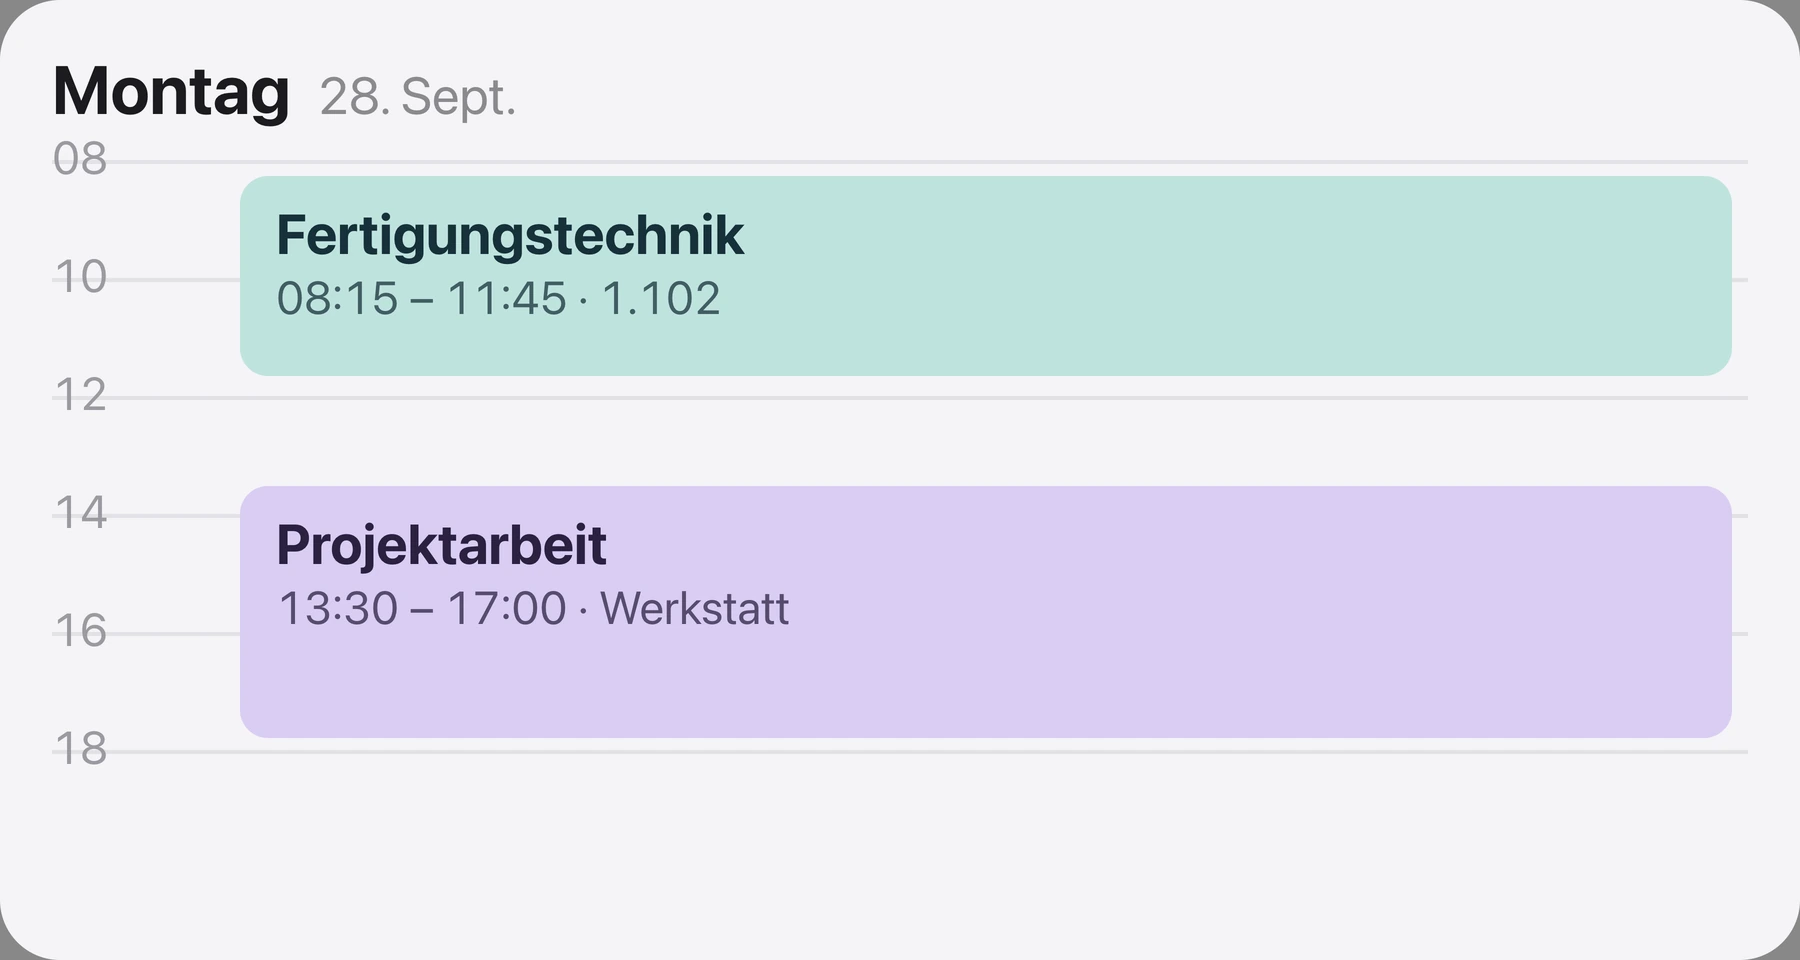
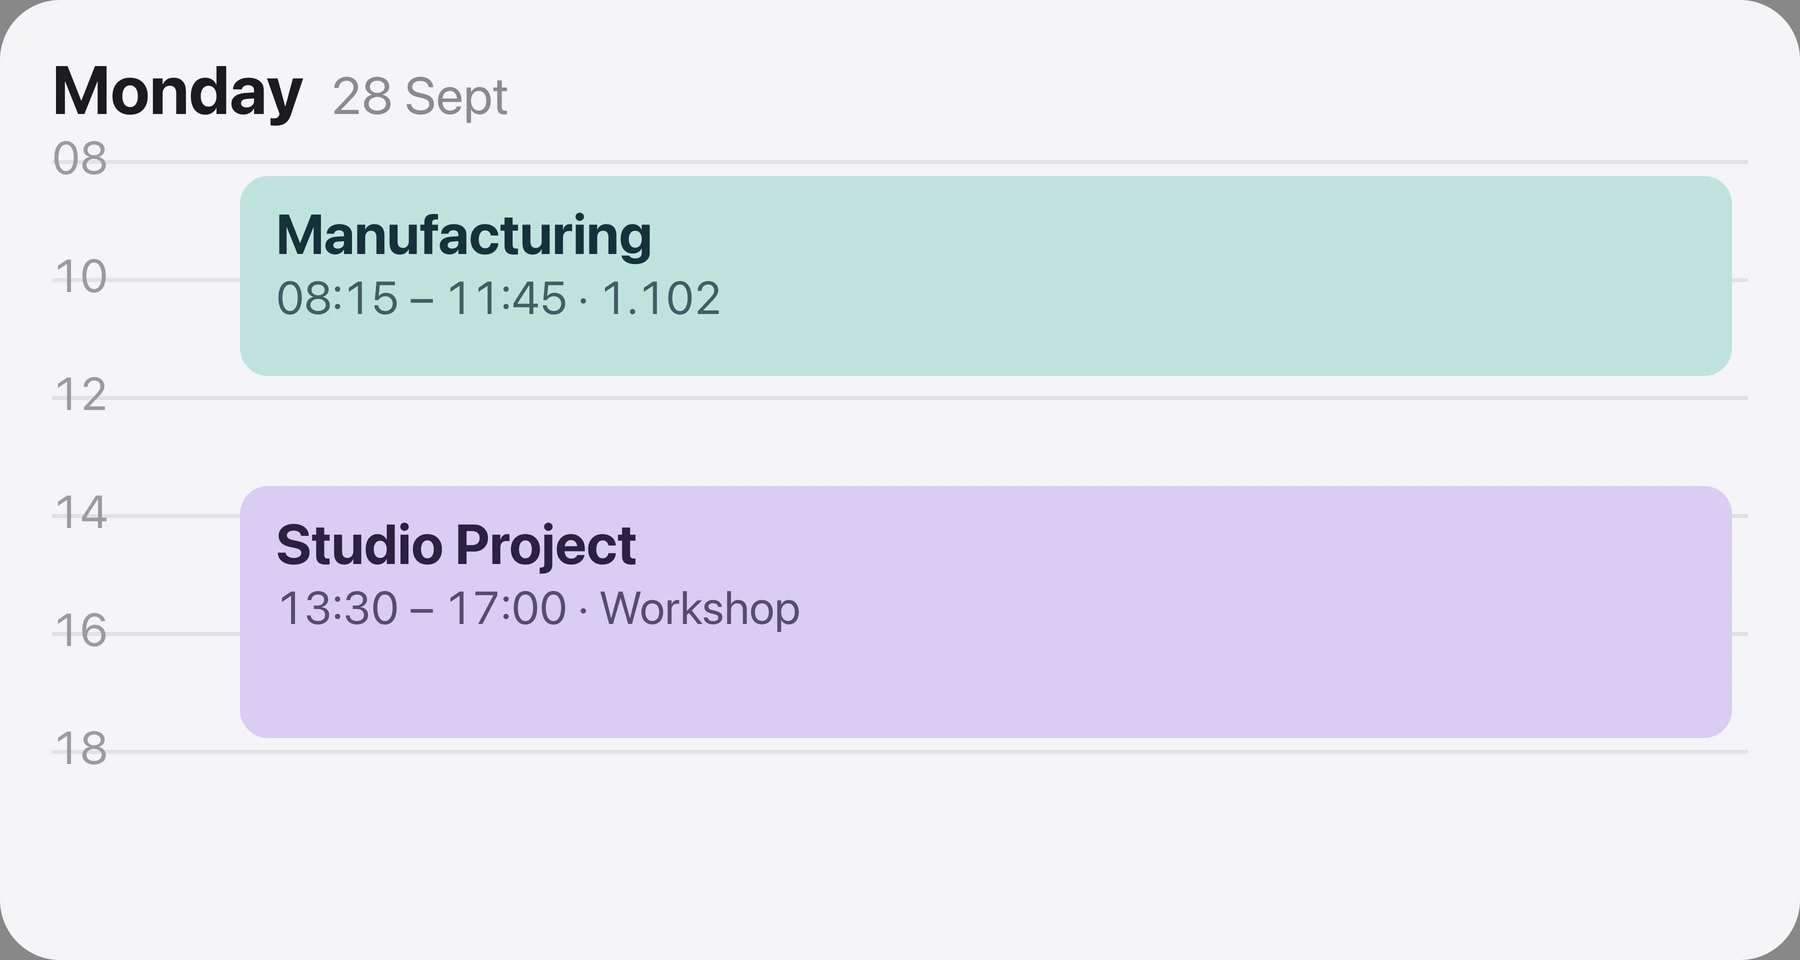
Wipe the chat before each loop, fix the image fade, English courses, Ben
The run now clears itself and starts over instead of rolling straight on.
A leaving message fades on opacity alone in a fixed box, which is what
made the timetables stutter as they closed. Courses are English and
Jamie is Ben.

diff --git a/public/unify2d1.html b/public/unify2d1.html
@@ -1663,7 +1663,13 @@
        export, where the frame's island covers them; a black band pushes them
        below it. Padding is in the image's box, so the scroll travel
        (calc(-100% + 100cqh)) still lands on the last row. */
-    .v1-window img.v1-clear-island { padding-top: 10%; background: #000; box-sizing: content-box; }
+    /* The band has to clear the FRAME's island, and that is 12.6% of the screen
+       box's width below its top edge (measured off iphone-17-frame.png's alpha:
+       the pill ends at y 130, the screen box starts at y 28, over a 808px box).
+       At 10% the card's top edge landed 0.6px under the island — touching, and
+       on a device it rounded the wrong way and the island cut into the white.
+       15% leaves ~2.4% of the width as real black between the two. */
+    .v1-window img.v1-clear-island { padding-top: 15%; background: #000; box-sizing: content-box; }
     /* Home and timetable scroll their whole length, but only while they are
        the phone in the middle of the carousel — the script plays it with the
        Web Animations API (see the carousel script). The travel is
@@ -2053,7 +2059,7 @@
               <div class="imsg-head">
                 <span class="imsg-back">‹</span>
                 <div class="imsg-group">
-                  <div class="imsg-avs"><span>J</span><span>A</span><span>S</span></div>
+                  <div class="imsg-avs"><span>B</span><span>A</span><span>S</span></div>
                   <span class="imsg-name">HM Group ›</span>
                 </div>
               </div>
@@ -3338,26 +3344,26 @@
       // Each image's own size goes on the <img>, so its box has its final height
       // the moment it is added. Without it the image is 0 tall until it loads:
       // the column glides by the wrong amount and jumps when it arrives.
-      var SIZE = { 'tt-jamie': [1800, 848], 'tt-sophia': [1800, 864], 'tt-me': [1800, 960] };
+      var SIZE = { 'tt-ben': [1800, 848], 'tt-sophia': [1800, 864], 'tt-me': [1800, 960] };
       Object.keys(SIZE).forEach(function (n) { new Image().src = IMG + n + '.webp'; });   // warm the cache
       var MSGS = [
-        // side: Anna and Sophia answer from the left, Jamie from the right —
+        // side: Anna and Sophia answer from the left, Ben from the right —
         // grey either way; only mine (out) is blue.
         { who: 'Anna',   text: "when's your next break??" },
-        { who: 'Jamie',  right: true, img: 'tt-jamie',  text: 'idk, check mine' },
-        { who: 'Sophia', img: 'tt-sophia', text: 'mine, technisches ID till 13:00 😑' },
+        { who: 'Ben',    right: true, img: 'tt-ben',    text: 'idk, check mine' },
+        { who: 'Sophia', img: 'tt-sophia', text: 'mine, materials till 13:00 😑' },
         { out: true,     img: 'tt-me',     text: 'and mine. mensa next break?' },
         { who: 'Anna',   text: "which break tho 😅 can't read all of these" },
-        { who: 'Jamie',  right: true, text: "12:15? i've got 45 min" },
+        { who: 'Ben',    right: true, text: "12:15? i've got 45 min" },
         { who: 'Sophia', text: "that's exactly when I'm still in class" },
-        { out: true,     text: "and jamie's back in prototyping at 13:00" },
+        { out: true,     text: "and ben's back in prototyping at 13:00" },
         { who: 'Anna',   text: 'so nobody 🙃 next week then' },
         { who: 'Sophia · next day', text: 'sorry just saw this — are you guys still at the mensa?' }
       ];
-      var STEP = 2600, GLIDE = 1100, POP = 560, FADE = 450;
+      var STEP = 2600, GLIDE = 1100, POP = 560, FADE = 450, WIPE = 520, PAUSE = 700;
       var TARGET = .70, HARD = .78;                   // share of the screen's height
       var reduce = matchMedia('(prefers-reduced-motion: reduce)').matches;
-      var k = 0, timer = null;
+      var k = 0, timer = null, wipedAt = -1;
 
       function make(m) {
         var el = document.createElement('div');
@@ -3393,9 +3399,13 @@
         c.style.position = 'absolute'; c.style.margin = '0';
         c.style.left = (r.left - st.left) + 'px';
         c.style.top = (r.top - st.top) + 'px';
-        c.style.width = r.width + 'px';
+        c.style.width = r.width + 'px'; c.style.height = r.height + 'px';   // fixed box: no reflow as it leaves
+        c.style.willChange = 'opacity';
         stage.appendChild(c);
-        c.animate([{ opacity: 1, transform: 'scale(1)' }, { opacity: 0, transform: 'scale(.95)' }],
+        // Opacity only. Scaling a message on the way out re-rasterises whatever
+        // is inside it every frame, and a timetable is a 1800px bitmap — that is
+        // the stutter each image used to make as it closed.
+        c.animate([{ opacity: 1 }, { opacity: 0 }],
                   { duration: FADE, easing: 'cubic-bezier(.4, 0, .7, 1)', fill: 'forwards' });
         setTimeout(function () { c.remove(); }, FADE + 60);
       }
@@ -3428,15 +3438,40 @@
 
       function fill() {                               // open with the stack already at ~70%
         Array.prototype.slice.call(stage.querySelectorAll('.imsg-msg[data-leaving]')).forEach(function (c) { c.remove(); });
-        track.innerHTML = ''; k = 0;
+        track.innerHTML = ''; k = 0; wipedAt = -1;
         track.style.transition = 'none'; track.style.transform = 'translateY(0)';
         while (k < MSGS.length) {
           add(false);
           if (stackHeight() > screenHeight() * TARGET) { track.lastChild.remove(); k--; break; }
         }
       }
-      function start() { if (!timer) timer = setInterval(function () { add(true); }, STEP); }
-      function stop()  { clearInterval(timer); timer = null; }
+      // The conversation runs once, clears itself, and starts over — the wipe
+      // is what makes the repeat read as a new run rather than a jump cut.
+      function wipe() {                               // returns how long it takes
+        var out = kids(), last = (out.length - 1) * 70;
+        out.forEach(function (c, i) {
+          c.dataset.leaving = '1'; c.style.willChange = 'opacity';
+          c.animate([{ opacity: 1 }, { opacity: 0 }],
+                    { duration: WIPE, delay: i * 70, easing: 'cubic-bezier(.4, 0, .7, 1)', fill: 'forwards' });
+        });
+        var total = WIPE + last + 60;
+        setTimeout(function () {
+          track.innerHTML = '';
+          track.style.transition = 'none'; track.style.transform = 'translateY(0)';
+        }, total);
+        return total;
+      }
+      function tick() {
+        if (k > 0 && k % MSGS.length === 0 && wipedAt !== k) {   // the run is over
+          wipedAt = k;
+          timer = setTimeout(tick, wipe() + PAUSE);
+          return;
+        }
+        add(true);
+        timer = setTimeout(tick, STEP);
+      }
+      function start() { if (!timer) timer = setTimeout(tick, STEP); }
+      function stop()  { clearTimeout(timer); timer = null; }
 
       fill();
       if (reduce) return;

diff --git a/timetable-source.html b/timetable-source.html
@@ -5,18 +5,18 @@
   body { background: #888; font-family: -apple-system, BlinkMacSystemFont, "SF Pro Text", "Helvetica Neue", Arial, sans-serif; -webkit-font-smoothing: antialiased; }
   .card { overflow: hidden; }
 
-  /* ── Jamie: dark list (his uni app in dark mode) ───────────────── */
-  #jamie { width: 900px; height: 424px; background: #111113; border-radius: 30px; padding: 0 0 0 0; }
-  #jamie .day { color: #fff; font-size: 40px; font-weight: 700; padding: 26px 0 20px 34px; letter-spacing: -.01em; }
-  #jamie .row { display: flex; align-items: center; gap: 26px; padding: 22px 34px; }
-  #jamie .row.a { background: #7A88A0; }
-  #jamie .row.b { background: #A3ADC0; }
-  #jamie .idx { color: rgba(255,255,255,.75); font-size: 28px; width: 20px; }
-  #jamie .time { color: #fff; font-size: 30px; line-height: 1.32; font-variant-numeric: tabular-nums; }
-  #jamie .meta { color: #fff; }
-  #jamie .meta b { display: block; font-size: 32px; font-weight: 700; letter-spacing: -.01em; }
-  #jamie .meta span { display: block; font-size: 27px; color: rgba(255,255,255,.88); margin-top: 3px; }
-  #jamie .foot { color: #fff; font-size: 30px; font-weight: 600; padding: 20px 0 0 34px; }
+  /* ── Ben: dark list (his uni app in dark mode) ───────────────── */
+  #ben { width: 900px; height: 424px; background: #111113; border-radius: 30px; padding: 0 0 0 0; }
+  #ben .day { color: #fff; font-size: 40px; font-weight: 700; padding: 26px 0 20px 34px; letter-spacing: -.01em; }
+  #ben .row { display: flex; align-items: center; gap: 26px; padding: 22px 34px; }
+  #ben .row.a { background: #7A88A0; }
+  #ben .row.b { background: #A3ADC0; }
+  #ben .idx { color: rgba(255,255,255,.75); font-size: 28px; width: 20px; }
+  #ben .time { color: #fff; font-size: 30px; line-height: 1.32; font-variant-numeric: tabular-nums; }
+  #ben .meta { color: #fff; }
+  #ben .meta b { display: block; font-size: 32px; font-weight: 700; letter-spacing: -.01em; }
+  #ben .meta span { display: block; font-size: 27px; color: rgba(255,255,255,.88); margin-top: 3px; }
+  #ben .foot { color: #fff; font-size: 30px; font-weight: 600; padding: 20px 0 0 34px; }
 
   /* ── Sophia: light cards (her app in light mode) ───────────────── */
   #sophia { width: 900px; height: 432px; background: #fff; border-radius: 30px; padding: 30px 32px; }
@@ -46,8 +46,8 @@
   #me .ev span { display: block; font-size: 23px; opacity: .75; margin-top: 2px; font-variant-numeric: tabular-nums; }
 </style>
 
-<div class="card" id="jamie">
-  <div class="day">Montag</div>
+<div class="card" id="ben">
+  <div class="day">Monday</div>
   <div class="row a">
     <div class="idx">1</div>
     <div class="time">09:45<br>12:15</div>
@@ -56,27 +56,27 @@
   <div class="row b">
     <div class="idx">2</div>
     <div class="time">13:00<br>16:15</div>
-    <div class="meta"><b>Prototyping</b><span>1.034 · Jürgens</span></div>
+    <div class="meta"><b>Prototyping Lab</b><span>1.034 · Jürgens</span></div>
   </div>
-  <div class="foot">Mo. 28. Sept.</div>
+  <div class="foot">Mon 28 Sept</div>
 </div>
 
 <div class="card" id="sophia">
-  <div class="top"><b>Montag</b><span>28. September</span></div>
+  <div class="top"><b>Monday</b><span>28 September</span></div>
   <div class="blk amber">
     <div class="idx">1</div>
     <div class="time">10:00<br>13:00</div>
-    <div class="meta"><b>Technisches ID</b><span>2.008 · Petri</span></div>
+    <div class="meta"><b>Materials &amp; Processes</b><span>2.008 · Petri</span></div>
   </div>
   <div class="blk blue">
     <div class="idx">2</div>
     <div class="time">14:00<br>15:30</div>
-    <div class="meta"><b>Designtheorie</b><span>0.012 · Naumann</span></div>
+    <div class="meta"><b>Design Theory</b><span>0.012 · Naumann</span></div>
   </div>
 </div>
 
 <div class="card" id="me">
-  <div class="top"><b>Montag</b><span>28. Sept.</span></div>
+  <div class="top"><b>Monday</b><span>28 Sept</span></div>
   <div class="grid">
     <div class="hour" style="top:0"><i>08</i></div>
     <div class="hour" style="top:59px"><i>10</i></div>
@@ -84,7 +84,7 @@
     <div class="hour" style="top:177px"><i>14</i></div>
     <div class="hour" style="top:236px"><i>16</i></div>
     <div class="hour" style="top:295px"><i>18</i></div>
-    <div class="ev t" style="top:8px;height:100px"><b>Fertigungstechnik</b><span>08:15 – 11:45 · 1.102</span></div>
-    <div class="ev p" style="top:163px;height:126px"><b>Projektarbeit</b><span>13:30 – 17:00 · Werkstatt</span></div>
+    <div class="ev t" style="top:8px;height:100px"><b>Manufacturing</b><span>08:15 – 11:45 · 1.102</span></div>
+    <div class="ev p" style="top:163px;height:126px"><b>Studio Project</b><span>13:30 – 17:00 · Workshop</span></div>
   </div>
 </div>
